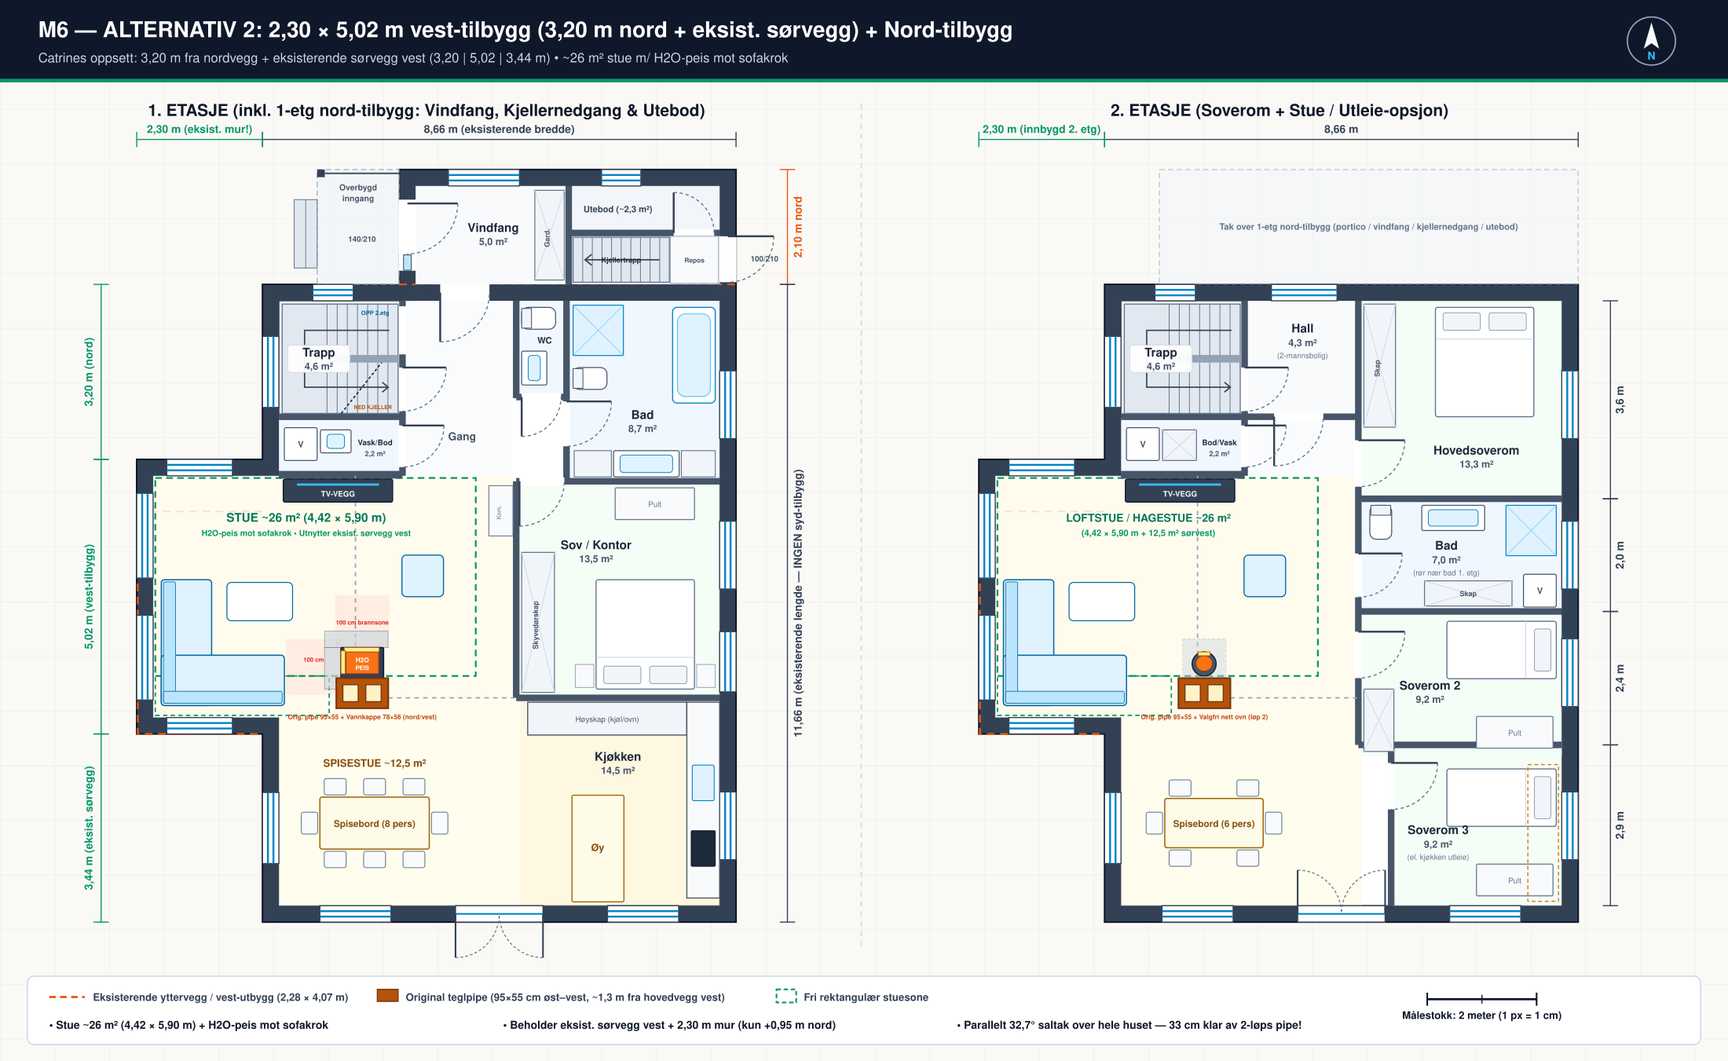
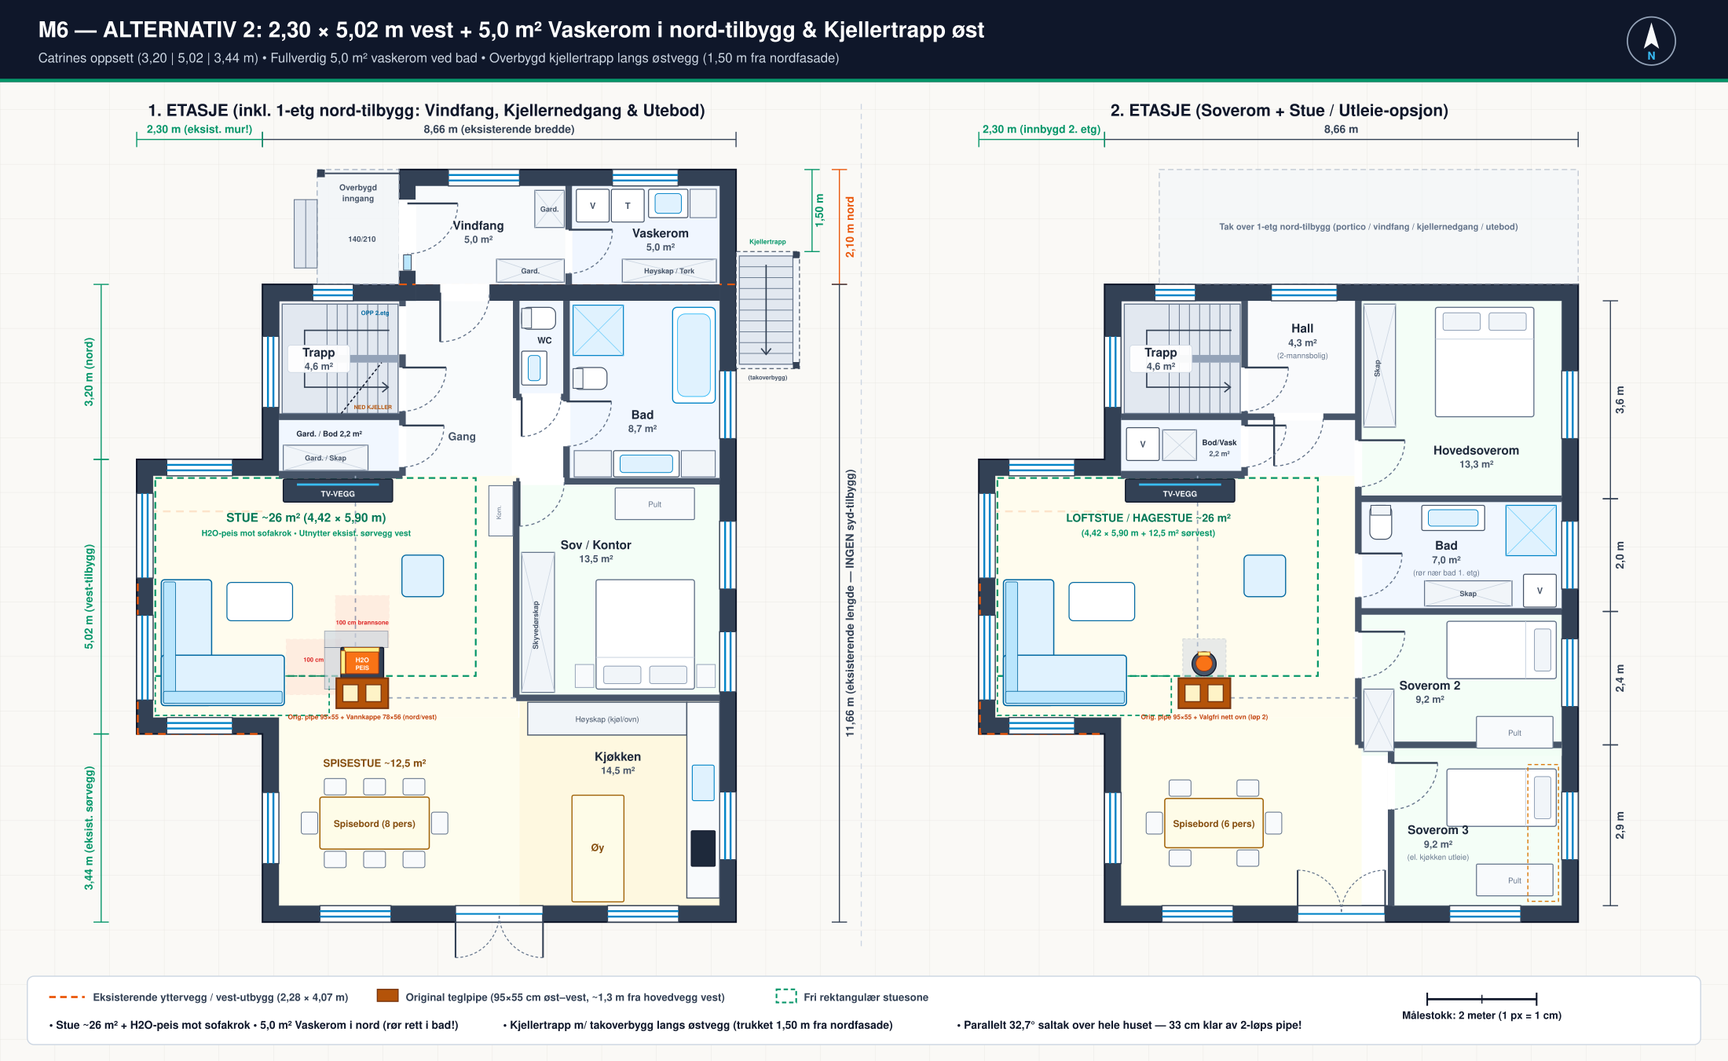
Alt 2: move 5.0m² Vaskerom to north extension + covered east basement stair (1.50m setback)

diff --git a/scripts/generate_vest_alternativer.py b/scripts/generate_vest_alternativer.py
@@ -200,6 +200,18 @@ class PlanBuilder:
         # Clean pill behind label
         self.rect(x + 10, mid_y - 25, 114, 50, fill="#ffffff", stroke="#cbd5e1", sw=1.2, rx=6, opacity=0.93)
 
+    def basement_stairs_v(self, x, y, w, h):
+        """External basement stair along east wall descending south (top -> bottom)."""
+        self.rect(x, y, w, h, fill="#e2e8f0", stroke="#64748b", sw=1.8)
+        steps = 10
+        sh = h / steps
+        for i in range(1, steps):
+            self.line(x, y + i * sh, x + w, y + i * sh, stroke="#64748b", sw=1.3)
+        ax, ay1 = self.p(x + w / 2, y + 16)
+        _, ay2 = self.p(x + w / 2, y + h - 18)
+        self.path(f"M {ax:.1f} {ay1:.1f} L {ax:.1f} {ay2:.1f}", stroke="#334155", sw=2.4)
+        self.path(f"M {ax - 9:.1f} {ay2 - 11:.1f} L {ax:.1f} {ay2:.1f} L {ax + 9:.1f} {ay2 - 11:.1f}", stroke="#334155", sw=2.4)
+
     def basement_stairs_h(self, x, y, w, h):
         """External basement stair descending from east (right) to west (left)."""
         self.rect(x, y, w, h, fill="#e2e8f0", stroke="#64748b", sw=1.8)
@@ -474,17 +486,22 @@ def draw_outer_shell(pb: PlanBuilder, west_depth: float, wy1: float, wy2: float,
     pb.path(d, stroke="#ea580c", sw=3.5, dash="14,10")
 
 
-def draw_shared_east_floor1(pb: PlanBuilder):
+def draw_shared_east_floor1(pb: PlanBuilder, north_vaskerom: bool = False):
     """Exact match to Magnus's 1:50 sketch for 1. etg:
-    - 1-story north extension: Vindfang (140/210 from west), Kjellernedgang (110/210 from east), Utebod NE
-    - NE Bad (~8.7 m², y=30..355) + separate WC west of bad (y=30..225)
-    - Mid-east Sov (~13.5 m², y=365..750) w/ Pult north, south-headboard bed, Skyvedørskap west, Kommode niche
+    - If north_vaskerom=False (Alt 1): 1-story north extension holds Vindfang + Kjellernedgang (east) + Utebod NE
+    - If north_vaskerom=True  (Alt 2): 1-story north extension holds Vindfang + full 5,0 m² Vaskerom (NE),
+      and external covered basement stair moves outside along the east wall, set back 1,50 m from north facade!
+    - NE Bad (~8.7 m², y=30..355) + separate WC west of bad (y=30..206)
+    - Mid-east Sov (~13.5 m², y=366..750) w/ Pult north, south-headboard bed, Skyvedørskap west, Kommode niche
     - SE Kitchen (14.5 m²) w/ tall cabinets, east counter, island & south terrace doors
     """
     # North extension interior (y=-180..0, x=280..836) — aligned cleanly with existing 30 cm north wall at y=0..30!
     pb.rect(280, -180, 274, 180, fill="#f8fafc", opacity=0.95)  # Vindfang
-    pb.rect(566, -180, 270, 82, fill="#f1f5f9", opacity=0.95)   # Utebod (~2.3 m²)
-    pb.rect(566, -92, 270, 92, fill="#e2e8f0", opacity=0.95)    # Kjellernedgang + øst-repos
+    if north_vaskerom:
+        pb.rect(566, -180, 270, 180, fill="#eff6ff", opacity=0.95)  # Full 5,0 m² Vaskerom!
+    else:
+        pb.rect(566, -180, 270, 82, fill="#f1f5f9", opacity=0.95)   # Utebod (~2.3 m²)
+        pb.rect(566, -92, 270, 92, fill="#e2e8f0", opacity=0.95)    # Kjellernedgang + øst-repos
 
     # Main 1. etg NE & East zones — aligned cleanly on ONE continuous vertical wall axis x=464!
     pb.rect(558, 30, 278, 328, fill="#eff6ff", opacity=0.85)    # Bad 8.7 m²
@@ -493,8 +510,9 @@ def draw_shared_east_floor1(pb: PlanBuilder):
     pb.rect(470, 760, 366, 376, fill="#fef3c7", opacity=0.55)   # Kitchen 14.5 m²
 
     # Walls in north extension + clean 30 cm existing load-bearing north wall at y=0..30!
-    pb.wall_v(560, -180, 0, 12)                  # Vindfang / Utebod-Kjeller wall
-    pb.wall_h(560, 836, -94, 12)                 # Utebod / Kjellernedgang wall
+    pb.wall_v(560, -180, 0, 12)                  # Vindfang / Vaskerom (or Utebod-Kjeller) wall
+    if not north_vaskerom:
+        pb.wall_h(560, 836, -94, 12)             # Utebod / Kjellernedgang wall
     pb.wall_h(280, 836, 15, 30, fill="#334155")  # Existing 30 cm north wall (flush across full width!)
 
     # Bad (8.7 m²), WC & Sov walls — ALL aligned cleanly on x=464 (matches 2. etg directly above!)
@@ -515,11 +533,15 @@ def draw_shared_east_floor1(pb: PlanBuilder):
     pb.text(182, -78, "140/210", size=14, weight="700", fill="#475569")
     # Inner door Vindfang -> Gang (through 30 cm existing north wall, swings cleanly into Gang!)
     pb.door(325, 15, 90, "h_right_down", wall_t=30)
-    # 100/210 SINGLE external door on EAST wall of north extension into flat landing (y=-90..-4 -> clear of y=0..30 wall!)
-    pb.door(851, -88, 84, "v_down_right", wall_t=30)
-    pb.text(918, -42, "100/210", size=14, weight="700", fill="#475569")
-    # Internal door from flat east landing (x=746..836) NORTH into Utebod (zero stair collision!)
-    pb.door(752, -94, 74, "h_right_up", wall_t=12)
+    if north_vaskerom:
+        # Door Vindfang -> Vaskerom (5,0 m²), swings cleanly east into Vaskerom!
+        pb.door(560, -100, 80, "v_down_right", wall_t=12)
+    else:
+        # 100/210 SINGLE external door on EAST wall of north extension into flat landing (y=-90..-4 -> clear of y=0..30 wall!)
+        pb.door(851, -88, 84, "v_down_right", wall_t=30)
+        pb.text(918, -42, "100/210", size=14, weight="700", fill="#475569")
+        # Internal door from flat east landing (x=746..836) NORTH into Utebod (zero stair collision!)
+        pb.door(752, -94, 74, "h_right_up", wall_t=12)
     # WC door (from gang alcove, swings cleanly south)
     pb.door(474, 206, 72, "h_right_down", wall_t=12)
     # Bad 85/210 door (swings into Bad between WC y=200 and sink cabinet y=304 -> ZERO cabinet collision!)
@@ -532,21 +554,46 @@ def draw_shared_east_floor1(pb: PlanBuilder):
     # Windows on north & east walls (100% synced with Fasade Nord & Fasade Øst!)
     pb.window_h(92, 166, 15, 30)      # Trapp narrow north window (matches Fasade Nord!)
     pb.window_h(340, 470, -195, 30)   # Vindfang double north window
-    pb.window_h(620, 692, -195, 30)   # Utebod narrow north window (matches Fasade Nord!)
+    if north_vaskerom:
+        pb.window_h(640, 760, -195, 30)  # Vaskerom double north window (matches Fasade Nord Alt 2!)
+    else:
+        pb.window_h(620, 692, -195, 30)  # Utebod narrow north window (matches Fasade Nord Alt 1!)
     pb.window_v(851, 158, 282, 30)    # Axis 4: Bad 1. etg
     pb.window_v(851, 433, 557, 30)    # Axis 3: Sov/Pult 1. etg
     pb.window_v(851, 635, 745, 30)    # Axis 2: Sov sør 1. etg
     pb.window_v(851, 928, 1052, 30)   # Axis 1: Kitchen east
     pb.window_h(631, 761, 1151, 30)   # Kitchen south window
 
-    # Fixtures — North extension (flat east landing x=746..836 + basement stairs descending WEST x=568..744!)
-    pb.wardrobe(498, -172, 54, 164, "Gard.")
-    pb.rect(746, -88, 88, 86, fill="#f8fafc", stroke="#94a3b8", sw=1.4)  # Flat landing (Repos)
-    pb.text(790, -40, "Repos", size=12, weight="700", fill="#475569")
-    pb.basement_stairs_h(568, -86, 176, 82)
-    pb.text(650, -132, "Utebod (~2,3 m²)", size=16, weight="700", fill="#334155")
-    pb.text(656, -40, "Kjellertrapp", size=13, weight="700", fill="#1e293b")
-    pb.room_label(422, -92, "Vindfang", "5,0 m²")
+    # Fixtures — North extension
+    if north_vaskerom:
+        # Vindfang garderobe along NE & SE walls (clear of Vaskerom door at y=-100..-20!)
+        pb.wardrobe(498, -172, 54, 68, "Gard.")
+        pb.wardrobe(428, -46, 124, 42, "Gard.")
+        pb.room_label(395, -96, "Vindfang", "5,0 m²")
+        # Full 5,0 m² Vaskerom (2,70 x 1,80 m): V + T + stor utslagsvask + benk nord, høyskap sør mot Bad!
+        pb.washer_dryer(574, -174, count=2, vertical=False)
+        pb.sink(706, -174, 72, 52)
+        pb.rect(782, -174, 48, 52, fill="#f1f5f9", stroke="#64748b", sw=1.5)  # Benkeskap
+        pb.wardrobe(658, -46, 172, 42, "Høyskap / Tørk")
+        pb.room_label(728, -82, "Vaskerom", "5,0 m²")
+        # NEW external covered basement stair along EAST wall, set back 1,50 m from north facade (y=-210 -> -60)!
+        # Stops at y=+154 (clear of Bad 1.etg east window at y=158..282!)
+        pb.rect(866, -60, 116, 214, fill="#f1f5f9", stroke="#475569", sw=2.0, dash="8,5", opacity=0.85)  # Takoverbygg
+        pb.basement_stairs_v(872, -52, 98, 198)
+        pb.rect(970, -60, 12, 12, fill="#334155")   # Nordre søyle
+        pb.rect(970, 142, 12, 12, fill="#334155")   # Søndre søyle
+        pb.text(924, -74, "Kjellertrapp", size=12, weight="700", fill="#059669")
+        pb.text(924, 174, "(takoverbygg)", size=11, weight="600", fill="#475569")
+        # 1,50 m setback dimension on east side from north facade (y=-210) to stair roof (y=-60)
+        pb.dim_v(1005, -210, -60, "1,50 m", color="#059669", bold=True, text_offset=20)
+    else:
+        pb.wardrobe(498, -172, 54, 164, "Gard.")
+        pb.rect(746, -88, 88, 86, fill="#f8fafc", stroke="#94a3b8", sw=1.4)  # Flat landing (Repos)
+        pb.text(790, -40, "Repos", size=12, weight="700", fill="#475569")
+        pb.basement_stairs_h(568, -86, 176, 82)
+        pb.text(650, -132, "Utebod (~2,3 m²)", size=16, weight="700", fill="#334155")
+        pb.text(656, -40, "Kjellertrapp", size=13, weight="700", fill="#1e293b")
+        pb.room_label(422, -92, "Vindfang", "5,0 m²")
 
     # Fixtures — Bad 1. etg (8.7 m², exact match to Magnus's sketch!)
     pb.shower(568, 38, 92, 92)  # Dusj i NV
@@ -776,16 +823,16 @@ def build_alt2_floor1(pb: PlanBuilder):
     pb.rect(30, 244, 220, 100, fill="#eff6ff", opacity=0.85)  # Kompakt Vask / Bod (2,2 m²)
     pb.rect(256, 30, 200, 320, fill="#f8fafc", opacity=0.85)  # Gang
 
-    # Shared east side + north extension (100% match to Magnus's sketch!)
-    draw_shared_east_floor1(pb)
+    # Shared east side + north extension WITH full 5,0 m² Vaskerom & east-wall covered basement stair!
+    draw_shared_east_floor1(pb, north_vaskerom=True)
 
-    # NW stairwell (y=30..242) + compact Vask/Bod (y=244..346): open entry NE (up) + basement door lengst syd (SE)!
+    # NW stairwell (y=30..242) + Garderobe / Bod (y=244..346): open entry NE (up) + basement door lengst syd (SE)!
     pb.wall_v(256, 30, 350, 12)
     pb.wall_h(30, 256, 242, 12)
     pb.wall_h(30, 256, 348, 14)  # TV wall north of living (flush with wy1=320 inner wall y=350!)
     pb.rect(249, 40, 14, 88, fill="#ffffff")          # Åpen oppgang nordøst (opp til 2. etg)
     pb.door(256, 152, 80, "v_down_right", wall_t=12)  # Dør ned til kjeller (lengst syd i trappen!)
-    pb.door(256, 258, 76, "v_down_right", wall_t=12)  # Kompakt Vask/Bod (slår ut i Gang!)
+    pb.door(256, 258, 76, "v_down_right", wall_t=12)  # Garderobe / Bod (slår ut i Gang!)
 
     # Structural beam dashed lines
     pb.line(170, 350, 170, 720, stroke="#94a3b8", sw=2.5, dash="8,8")
@@ -802,8 +849,7 @@ def build_alt2_floor1(pb: PlanBuilder):
 
     # Fixtures & furniture — H2O fireplace on NORTH/WEST of chimney facing directly into sofa lounge!
     pb.stairs_u(36, 36, 212, 200)
-    pb.washer_dryer(40, 262, count=1, vertical=False)  # Vaskesøyle (V+T)
-    pb.sink(106, 266, 56, 42)                          # Kompakt utslagsvask/benk
+    pb.wardrobe(38, 294, 155, 46, "Gard. / Skap")      # Garderobe/bod (vaskerom flyttet til nord-tilbygg!)
     pb.dining_table(205, 985, 200, 95, seats=8)
     pb.tv_bench(38, 356, 200, 42)
     pb.sofa_l(-185, 540, w_horiz=225, h_vert=230, depth=92, corner="bl")  # 103 cm klar til vestglass på H2O-peis!
@@ -813,18 +859,17 @@ def build_alt2_floor1(pb: PlanBuilder):
 
     # Labels
     pb.room_label(103, 136, "Trapp", "4,6 m²")
-    pb.text(206, 294, "Vask/Bod", size=14, weight="700", fill="#1e293b")
-    pb.text(206, 314, "2,2 m²", size=13, weight="600", fill="#475569")
+    pb.text(122, 278, "Gard. / Bod 2,2 m²", size=14, weight="700", fill="#1e293b")
     pb.text(365, 285, "Gang", size=20, weight="700", fill="#475569")
     pb.text(80, 434, "STUE ~26 m² (4,42 × 5,90 m)", size=22, weight="800", fill="#047857")
     pb.text(80, 460, "H2O-peis mot sofakrok • Utnytter eksist. sørvegg vest", size=15, weight="700", fill="#059669")
     pb.text(205, 882, "SPISESTUE ~12,5 m²", size=19, weight="700", fill="#854d0e")
 
-    # Dimensions
+    # Dimensions (east vertical dims shifted clear of east-wall covered basement stair!)
     pb.dim_h(0, 866, -265, "8,66 m (eksisterende bredde)", bold=True)
     pb.dim_h(-230, 0, -265, "2,30 m (eksist. mur!)", color="#059669", bold=True)
-    pb.dim_v(960, -210, 0, "2,10 m nord", color="#ea580c", bold=True, text_offset=26)
-    pb.dim_v(960, 0, 1166, "11,66 m (eksisterende lengde — INGEN syd-tilbygg)", bold=True, text_offset=26)
+    pb.dim_v(1055, -210, 0, "2,10 m nord", color="#ea580c", bold=True, text_offset=26)
+    pb.dim_v(1055, 0, 1166, "11,66 m (eksisterende lengde — INGEN syd-tilbygg)", bold=True, text_offset=26)
     pb.dim_v(-295, 0, 320, "3,20 m (nord)", color="#059669", bold=True)
     pb.dim_v(-295, 320, 822, "5,02 m (vest-tilbygg)", color="#059669", bold=True)
     pb.dim_v(-295, 822, 1166, "3,44 m (eksist. sørvegg)", color="#059669", bold=True)
@@ -966,14 +1011,14 @@ if __name__ == "__main__":
     )
     make_sheet(
         "plan_alt2_symmetrisk_vest.svg",
-        "M6 — ALTERNATIV 2: 2,30 × 5,02 m vest-tilbygg (3,20 m nord + eksist. sørvegg) + Nord-tilbygg",
-        "Catrines oppsett: 3,20 m fra nordvegg + eksisterende sørvegg vest (3,20 | 5,02 | 3,44 m) • ~26 m² stue m/ H2O-peis mot sofakrok",
+        "M6 — ALTERNATIV 2: 2,30 × 5,02 m vest + 5,0 m² Vaskerom i nord-tilbygg & Kjellertrapp øst",
+        "Catrines oppsett (3,20 | 5,02 | 3,44 m) • Fullverdig 5,0 m² vaskerom ved bad • Overbygd kjellertrapp langs østvegg (1,50 m fra nordfasade)",
         "#059669",
         build_alt2_floor1,
         build_alt2_floor2,
         [
-            "Stue ~26 m² (4,42 × 5,90 m) + H2O-peis mot sofakrok",
-            "Beholder eksist. sørvegg vest + 2,30 m mur (kun +0,95 m nord)",
+            "Stue ~26 m² + H2O-peis mot sofakrok • 5,0 m² Vaskerom i nord (rør rett i bad!)",
+            "Kjellertrapp m/ takoverbygg langs østvegg (trukket 1,50 m fra nordfasade)",
             "Parallelt 32,7° saltak over hele huset — 33 cm klar av 2-løps pipe!",
         ],
     )

diff --git a/scripts/generate_fasader_alle4.py b/scripts/generate_fasader_alle4.py
@@ -226,7 +226,7 @@ def draw_west(d: ElevDraw, alt: int = 1):
         d.text(490, -1032, "3,20 m fra nord + eksist. sørvegg vest • Parallelt 32,7° saltak (samme vinkel som hovedtak — 33 cm klar av pipe!)", size=13, weight="600", fill="#059669")
 
 
-def draw_east(d: ElevDraw):
+def draw_east(d: ElevDraw, alt: int = 1):
     """FASADE ØST (Left = Sør y=1166, Right = Nord y=0, plus 1-etg Nord-tilbygg to the right y=0..-210).
     Coordinate x_plot = 1166 - y, so Sør is at x=0, Nord is at x=1166, North ext is x=1166..1376!"""
     d.rect(-80, -1020, 1540, 1020, fill="#f0f9ff", opacity=0.45)
@@ -271,18 +271,38 @@ def draw_east(d: ElevDraw):
     d.rect(1166, -290, 210, 290, fill="#ffffff", stroke="#0f172a", sw=2.5)
     d.siding(1166, -290, 210, 250)
     d.rect(1166, -40, 210, 40, fill="#475569", stroke="#1e293b", sw=1.5)
-    # SINGLE centered 110/210 external door on east face of north extension (utebod accessed internally from basement landing!)
-    d.solid_door(1224, -245, 96, 205, glass_top=True)
-    d.text(1272, -260, "Kjeller / Bod (110/210)", size=11, weight="700", fill="#475569")
+    if alt == 1:
+        # SINGLE centered 110/210 external door on east face of north extension (utebod accessed internally from basement landing!)
+        d.solid_door(1224, -245, 96, 205, glass_top=True)
+        d.text(1272, -260, "Kjeller / Bod (110/210)", size=11, weight="700", fill="#475569")
     # Parallel 32.7° saltak east roof slope (eaves -285, ridge -494!)
     d.poly([(1166, -285), (1395, -285), (1395, -494), (1166, -494)], fill="#1e293b", stroke="#0f172a", sw=2)
     for ry in range(-470, -285, 30):
         d.line(1168, ry, 1392, ry, stroke="#334155", sw=1)
 
+    if alt == 2:
+        # Alt 2: External covered basement stair along EAST wall, set back 1,50 m from north facade (x_plot = 1376 - 150 = 1226!)
+        # Runs south to x_plot = 1012 (y=+154 -> 100% clear of Bad 1.etg window at x_plot=884..1008!)
+        # Concrete stair side parapet & steps descending left (south)
+        d.poly([(1012, 0), (1226, 0), (1226, -75), (1012, -75)], fill="#cbd5e1", stroke="#334155", sw=1.6)
+        d.line(1020, -68, 1218, -10, stroke="#64748b", sw=1.5, dash="6,4")  # Stair slope inside parapet
+        # Support columns & clean matte-black lean-to roof overhang (Z = -238 wall -> -204 eave)
+        d.rect(1014, -206, 12, 206, fill="#ffffff", stroke="#334155", sw=1.5)
+        d.rect(1214, -206, 12, 206, fill="#ffffff", stroke="#334155", sw=1.5)
+        d.poly([(1006, -204), (1234, -204), (1234, -242), (1006, -242)], fill="#1e293b", stroke="#0f172a", sw=2.0)
+        d.line(1008, -222, 1232, -222, stroke="#334155", sw=1)
+        d.text(1120, -256, "Takoverbygg kjellertrapp", size=11, weight="700", fill="#059669")
+        d.dim_h(1226, 1376, -125, "1,50 m", color="#059669", bold=True, dy=-8)
+
     d.dim_h(0, 1166, 70, "11,66 m (eksisterende lengde)", bold=True)
     d.dim_h(1166, 1376, 70, "2,10 m nord", color="#ea580c", bold=True)
     d.text(650, -1065, "FASADE ØST (Nordøst)", size=23, weight="800", fill="#0f172a")
-    d.text(650, -1032, "4 stramme kors-sprosse-akser • 4 takvinduer linjert over vinduene • 1 sentrert kjeller-/boddør i nord-tilbygg", size=14, weight="600", fill="#059669")
+    sub_e = (
+        "4 stramme kors-sprosse-akser • 4 takvinduer linjert over vinduene • 1 sentrert kjeller-/boddør i nord-tilbygg"
+        if alt == 1
+        else "4 stramme kors-sprosse-akser • 4 takvinduer • Overbygd kjellertrapp trukket 1,50 m tilbake fra nordfasade (klar av badvindu!)"
+    )
+    d.text(650, -1032, sub_e, size=13, weight="600", fill="#059669")
 
 
 def draw_south(d: ElevDraw, alt: int = 1):
@@ -391,14 +411,28 @@ def draw_north(d: ElevDraw, alt: int = 1):
     d.kors_win(375, -768, 116, 115, single=False)   # Centered loft gable window
 
     # 1-STORY NORTH EXTENSION (x_plot = 0..635 = 6.35 m wide, PARALLEL 32.7° SALTAK!)
-    # Enclosed Utebod + Vindfang (x_plot = 0..485)
+    if alt == 2:
+        # Subtle recessed side view of covered east basement stair (set back 1,50 m behind north facade!)
+        d.rect(-112, -75, 112, 75, fill="#cbd5e1", stroke="#475569", sw=1.4, opacity=0.85)
+        d.rect(-108, -206, 12, 131, fill="#f8fafc", stroke="#475569", sw=1.3)
+        d.poly([(-122, -202), (0, -242), (0, -230), (-122, -192)], fill="#334155", stroke="#0f172a", sw=1.6)
+        d.text(-56, -252, "Kjellertrapp", size=10, weight="700", fill="#059669")
+        d.text(-56, -238, "(1,5 m bak)", size=9, weight="600", fill="#475569")
+
+    # Enclosed Utebod/Vaskerom + Vindfang (x_plot = 0..485)
     d.rect(0, -290, 485, 290, fill="#ffffff", stroke="#0f172a", sw=2.8)
     d.siding(0, -290, 485, 250)
     d.rect(0, -40, 485, 40, fill="#475569", stroke="#1e293b", sw=1.5)
-    d.kors_win(85, -238, 72, 132, single=True)      # Narrow single window (Utebod / kjellerlys)
-    d.kors_win(240, -242, 135, 140, single=False)   # Double kors-sprosse window (Vindfang)
-    d.text(121, -72, "Bod", size=12, weight="700", fill="#64748b")
-    d.text(308, -72, "Vindfang", size=12, weight="700", fill="#475569")
+    if alt == 1:
+        d.kors_win(85, -238, 72, 132, single=True)      # Narrow single window (Utebod / kjellerlys)
+        d.kors_win(240, -242, 135, 140, single=False)   # Double kors-sprosse window (Vindfang)
+        d.text(121, -72, "Bod", size=12, weight="700", fill="#64748b")
+        d.text(308, -72, "Vindfang", size=12, weight="700", fill="#475569")
+    else:
+        d.kors_win(65, -242, 120, 140, single=False)    # Double kors-sprosse window (Vaskerom 5,0 m²!)
+        d.kors_win(245, -242, 135, 140, single=False)   # Double kors-sprosse window (Vindfang)
+        d.text(125, -72, "Vaskerom", size=12, weight="700", fill="#059669")
+        d.text(312, -72, "Vindfang", size=12, weight="700", fill="#475569")
 
     # Covered entry porch / portico on RIGHT side of north extension (x_plot = 485..635) with classic vertical railing!
     d.rect(485, -40, 150, 40, fill="#94a3b8", stroke="#334155", sw=1.5)
@@ -420,7 +454,7 @@ def draw_north(d: ElevDraw, alt: int = 1):
     d.poly([(-28, -272), (317.5, -508), (663, -272), (648, -262), (317.5, -488), (-13, -262)], fill="#1e293b", stroke="#0f172a", sw=2)
     d.text(317.5, -524, "32,7° parallelt saltak", size=13, weight="700", fill="#ea580c")
 
-    d.dim_h(0, 485, 70, "4,85 m (Bod + Vindfang)", color="#ea580c", bold=True)
+    d.dim_h(0, 485, 70, "4,85 m (Bod + Vindfang)" if alt == 1 else "4,85 m (Vaskerom + Vindfang)", color="#ea580c", bold=True)
     d.dim_h(485, 635, 70, "1,50 m", color="#475569")
     d.dim_h(635, 866, 70, "2,31 m", color="#475569")
     d.dim_h(866, 866 + west_d, 70, "3,30 m vest" if alt == 1 else "2,30 m vest", color="#0284c7" if alt == 1 else "#059669", bold=True)
@@ -463,7 +497,7 @@ def build_sheet(alt: int):
 
     # Top-right: Fasade Øst
     d2 = ElevDraw(ox=1520, oy=955, scale=0.68)
-    draw_east(d2)
+    draw_east(d2, alt=alt)
     svg.extend(d2.els)
 
     # Bottom-left: Fasade Sør

diff --git a/docs/ARKITEKTBRIEF_M6_REV2.md b/docs/ARKITEKTBRIEF_M6_REV2.md
@@ -31,7 +31,9 @@
 * **Innhold:**
   * **Vindfang (`5,4 m²`):** Garderobevegg mot øst, dobbelt kors-sprossevindu mot nord, inngangsdør `140/210` vendt vestover inn i overbygd inngangsparti.
   * **Overbygd inngangsparti / portico (`1,50 m` bredde på høyre/vestre side av tilbygget):** Trapp og klassisk tre-rekkverk mot nord.
-  * **Utvendig kjellernedgang & `Utebod (~2,6 m²)`:** **Én sentrert ytterdør (`110/210`) på østveggen** inn til toppen av kjellernedgangen, med innvendig dør videre derfra inn til `Utebod` (gir en mye renere østfasade + smalt enkelt vindu nord i boden).
+  * **Utvendig kjellernedgang & `Utebod (~2,3 m²)` (Alt 1) / `Vaskerom (5,0 m²)` + overbygd kjellertrapp øst (Alt 2):**
+    * *Alt 1:* Én sentrert ytterdør (`100/210`) på østveggen inn til flatt repos med dør nord til `Utebod` og kjellertrapp ned vestover.
+    * *Alt 2 (Catrine/Magnus):* Hele østhalvdelen av nord-tilbygget blir fullverdig **`Vaskerom (5,0 m²)`** rett vegg-i-vegg med `Bad 1. etg` (korteste rørstrekk!), mens utvendig kjellertrapp flyttes ut langs **østveggen** med eget **takoverbygg trukket `1,50 m` tilbake fra nordfasaden** (stopper klart nord for `Bad`-vinduet; avstand mot østre nabogrense verifiseres mot 4 m-regel i situasjonskart). Den lille nisjen sør for trappen (`2,2 m²`) frigjøres da til ren `Garderobe / Bod`.
 
 ### 1. etasje (Hovedetasje — eksisterende hovedkropp + vest-tilbygg)
 * **Nordvest:** Separat `Trapp (4,8 m²)`, `Vaskerom (3,9 m²)` (Alt 1) eller kompakt `Vask/Bod (2,7 m²)` (Alt 2), og `Gang`.
